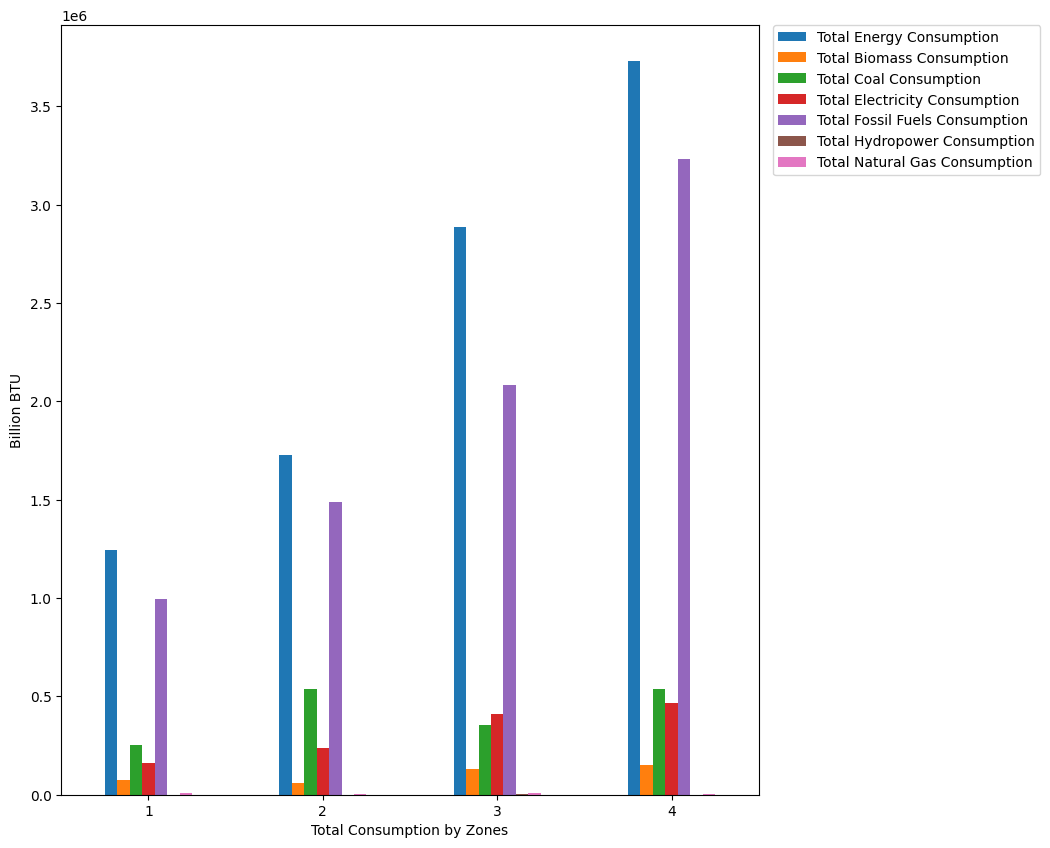
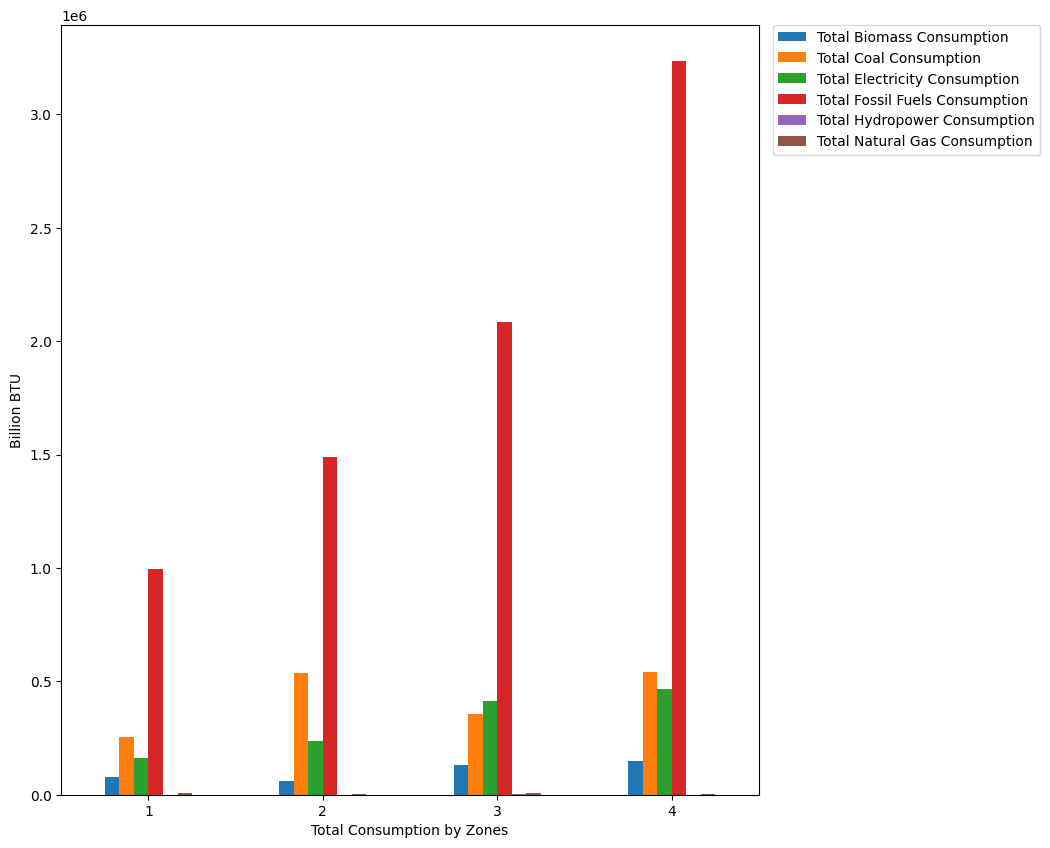
updated graphs

diff --git a/comp_2_edit.py b/comp_2_edit.py
@@ -31,27 +31,27 @@ merger = pd.DataFrame([])
 for ind,row in Energy_census.iterrows():
     if row['StateCodes'] in zone1:
         merger = merger.append(pd.DataFrame({
-            'Zone' : 1,
+            'Zone': 1,
             'State': row['StateCodes']
-        }, index = [0]), ignore_index = True)
+        }, index=[0]), ignore_index = True)
     if row['StateCodes'] in zone2:
         merger = merger.append(pd.DataFrame({
             'Zone' : 2,
             'State': row['StateCodes']
-        }, index = [0]), ignore_index = True)
+        }, index=[0]), ignore_index = True)
     if row['StateCodes'] in zone3:
         merger = merger.append(pd.DataFrame({
-            'Zone' : 3,
+            'Zone': 3,
             'State': row['StateCodes']
         }, index = [0]), ignore_index = True)
     elif row['StateCodes'] in zone4:
         merger = merger.append(pd.DataFrame({
             'Zone' : 4,
             'State': row['StateCodes']
-        }, index = [0]), ignore_index = True)
+        }, index=[0]), ignore_index=True)
 
 merger = merger.merge(Energy_census, left_on='State', right_on='StateCodes', how='left')
-merger = merger.drop(['StateCodes', 'State_x', 'State_y', 'Region', 'Division', 'Coast', 'Great Lakes','TotalC10-11' , 'TotalC11-12' , 'TotalC12-13'  ,'TotalC13-14'  ,'TotalP10-11'  ,'TotalP11-12' , 'TotalP12-13'  ,'TotalP13-14' , 'TotalE10-11' , 'TotalE11-12'  ,'TotalE12-13'  ,'TotalE13-14' , 'TotalPrice10-11' , 'TotalPrice11-12' , 'TotalPrice12-13'  ,'TotalPrice13-14'
+merger = merger.drop(['StateCodes', 'State_x', 'State_y', 'Region', 'Division', 'Coast', 'Great Lakes', 'TotalC10-11', 'TotalC11-12', 'TotalC12-13', 'TotalC13-14', 'TotalP10-11', 'TotalP11-12', 'TotalP12-13', 'TotalP13-14', 'TotalE10-11', 'TotalE11-12', 'TotalE12-13', 'TotalE13-14', 'TotalPrice10-11', 'TotalPrice11-12', 'TotalPrice12-13', 'TotalPrice13-14'
 ], axis=1)
 merger = merger.groupby(['Zone']).mean()
 
@@ -59,7 +59,7 @@ merger = merger.groupby(['Zone']).mean()
 
 
 a  = np.arange(0,len(merger.columns)) // 5*5
-merger = merger.groupby(a,axis = 1).mean().round(2)
+merger = merger.groupby(a, axis=1).mean().round(2)
 
 merger.columns =['Total Energy Consumption',
 'Total Energy Production',
@@ -94,7 +94,7 @@ merger.columns =['Total Energy Consumption',
 'Delete this',
 'Delete this',
 'Delete this',
-'Delete this' ]
+'Delete this']
 
 merger = merger.drop(['Delete this'], axis=1)
 
@@ -105,29 +105,29 @@ merger.insert(loc=idx, column='Zones', value=new_col)
 print(merger)
 
 
-ax = merger.plot(x="Zones", y=['Total Energy Consumption','Total Biomass Consumption', 'Total Coal Consumption', 'Total Electricity Consumption', 'Total Fossil Fuels Consumption', 'Total Hydropower Consumption', 'Total Natural Gas Consumption'], kind="bar",figsize=(9,10))
-ax.set_xticklabels(ax.get_xticklabels(),rotation = 0)
+ax = merger.plot(x="Zones", y=['Total Biomass Consumption', 'Total Coal Consumption', 'Total Electricity Consumption', 'Total Fossil Fuels Consumption', 'Total Hydropower Consumption', 'Total Natural Gas Consumption'], kind="bar", figsize=(9, 10))
+ax.set_xticklabels(ax.get_xticklabels(), rotation=0)
 ax.set(xlabel='Total Consumption by Zones', ylabel='Billion BTU')
 plt.legend(bbox_to_anchor=(1.02, 1), loc='upper left', borderaxespad=0)
 plt.savefig('Vis/total_consumption_by_zone.png', bbox_extra_artists=(ax,), bbox_inches='tight')
 plt.show()
 
-ax = merger.plot(x="Zones", y=['Total Energy Production','Total Coal Production', ], kind="bar",figsize=(9,10))
-ax.set_xticklabels(ax.get_xticklabels(),rotation = 0)
+ax = merger.plot(x="Zones", y=['Total Energy Production', 'Total Coal Production'], kind="bar", figsize=(9, 10))
+ax.set_xticklabels(ax.get_xticklabels(), rotation=0)
 ax.set(xlabel='Total Production by Zones', ylabel='Billion BTU')
 plt.legend(bbox_to_anchor=(1.02, 1), loc='upper left', borderaxespad=0)
 plt.savefig('Vis/total_production_by_zone.png', bbox_extra_artists=(ax,), bbox_inches='tight')
 plt.show()
 
-ax = merger.plot(x="Zones", y=['Total Energy Expenditures','Total Coal Expenditures', 'Total Electricity Expenditures', 'Total Natural Gas Expenditures'], kind="bar",figsize=(9,10))
-ax.set_xticklabels(ax.get_xticklabels(),rotation = 0)
+ax = merger.plot(x="Zones", y=['Total Energy Expenditures', 'Total Coal Expenditures', 'Total Electricity Expenditures', 'Total Natural Gas Expenditures'], kind="bar", figsize=(9, 10))
+ax.set_xticklabels(ax.get_xticklabels(), rotation=0)
 ax.set(xlabel='Total Expenditures by Zones', ylabel='Billion BTU')
 plt.legend(bbox_to_anchor=(1.02, 1), loc='upper left', borderaxespad=0)
 plt.savefig('Vis/total_expenditures_by_zone.png', bbox_extra_artists=(ax,), bbox_inches='tight')
 plt.show()
 
-ax = merger.plot(x="Zones", y=['Total Energy Average Price','Total Coal Average Price', 'Total Electricity Average Price', ], kind="bar",figsize=(9,10))
-ax.set_xticklabels(ax.get_xticklabels(),rotation = 0)
+ax = merger.plot(x="Zones", y=['Total Energy Average Price','Total Coal Average Price', 'Total Electricity Average Price'], kind="bar", figsize=(9, 10))
+ax.set_xticklabels(ax.get_xticklabels(), rotation=0)
 ax.set(xlabel='Total Average Price by Zones', ylabel='Price')
 plt.legend(bbox_to_anchor=(1.02, 1), loc='upper left', borderaxespad=0)
 plt.savefig('Vis/total_average_price_by_zone.png', bbox_extra_artists=(ax,), bbox_inches='tight')
